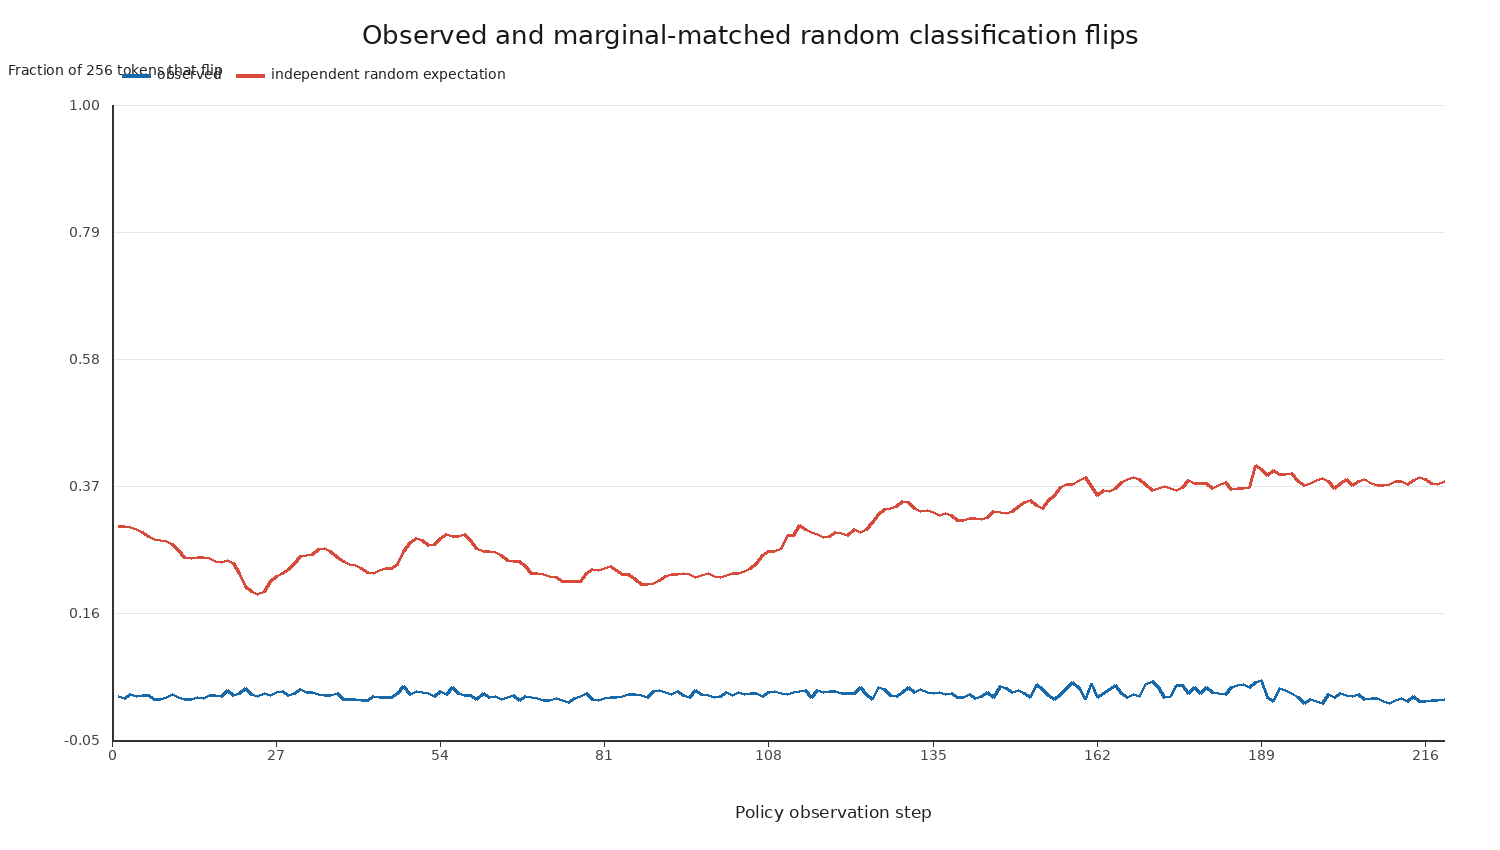
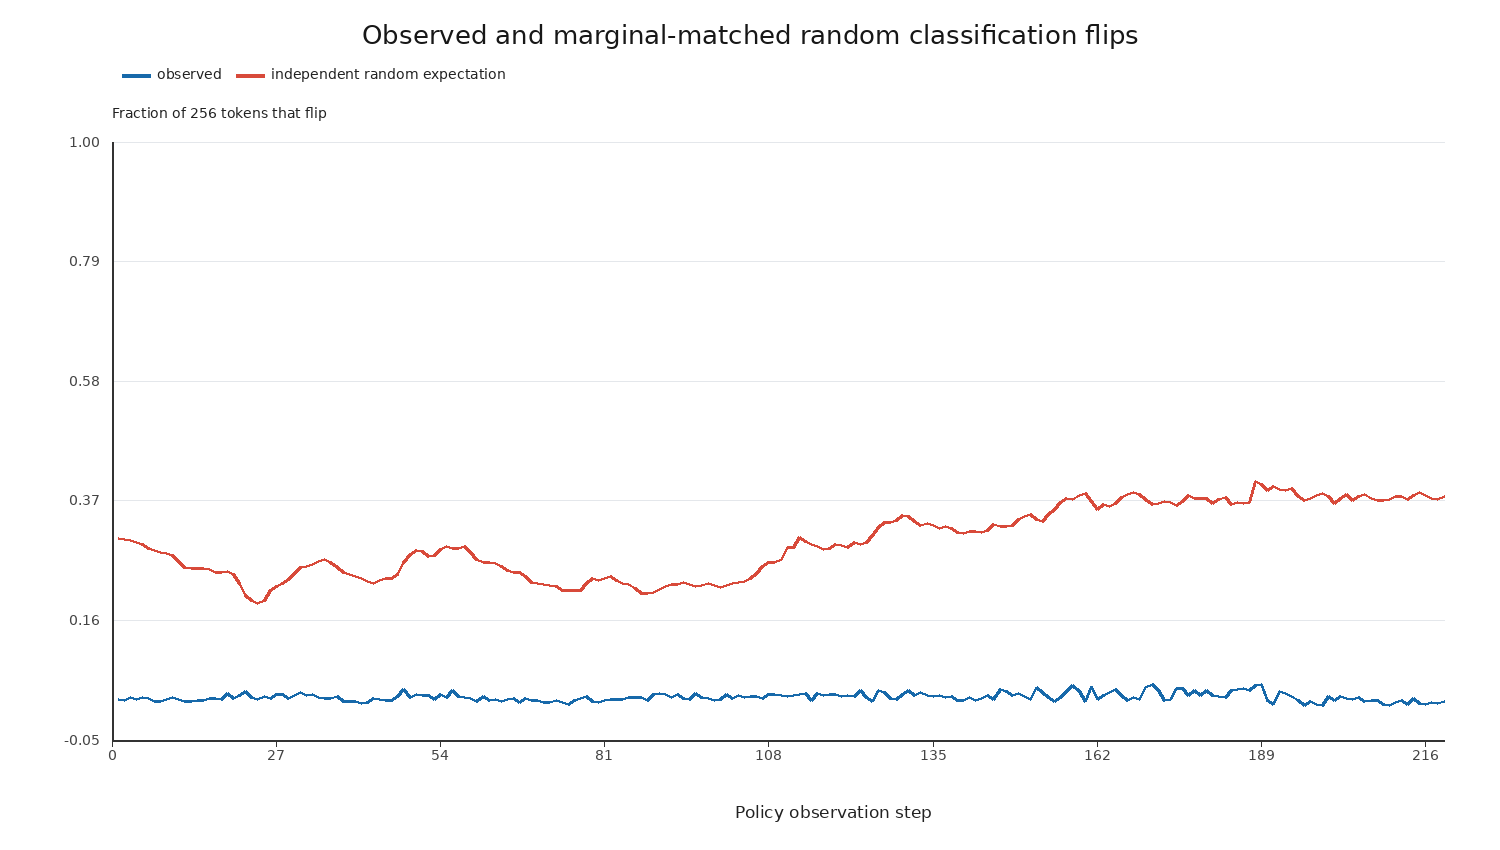
Improve temporal audit chart readability

diff --git a/experiments/kv_cache/experiments/v2_temporal_consistency_audit.py b/experiments/kv_cache/experiments/v2_temporal_consistency_audit.py
@@ -241,7 +241,7 @@ def line_chart(path: Path, title: str, series: list[tuple[str, list[float | None
     im = Image.new("RGB", (w, h), "white"); dr = ImageDraw.Draw(im)
     title_font, label_font, small_font = _font(26), _font(17), _font(14)
     dr.text((w // 2, 24), title, fill="#171717", font=title_font, anchor="mt")
-    left, right, top, bottom = 112, w - 56, 105, h - 110
+    left, right, top, bottom = 112, w - 56, 142, h - 110
     all_vals = [float(v) for _, arr, _ in series for v in arr if v is not None and math.isfinite(float(v))]
     if not all_vals: all_vals = [0.0, 1.0]
     lo = min(all_vals) if y_min is None else y_min; hi = max(all_vals) if y_max is None else y_max
@@ -261,11 +261,7 @@ def line_chart(path: Path, title: str, series: list[tuple[str, list[float | None
         dr.line((x, bottom, x, bottom + 6), fill="#333", width=1)
         dr.text((x, bottom + 10), str(x_tick), fill="#444", font=small_font, anchor="mt")
     dr.text((left + right // 2, h - 38), x_label, fill="#222", font=label_font, anchor="mm")
-    # Rotated y-axis title.
-    ytitle = Image.new("RGBA", (330, 36), (255, 255, 255, 0)); ImageDraw.Draw(ytitle).text((165, 2), y_label, fill="#222", font=label_font, anchor="mt")
-    im.alpha_composite(ytitle.rotate(90, expand=True), (8, (h - ytitle.height) // 2)) if im.mode == "RGBA" else None
-    # Drawing y-axis text unrotated keeps the figure readable with old Pillow.
-    dr.text((8, 62), y_label, fill="#222", font=small_font)
+    dr.text((left, 105), y_label, fill="#222", font=small_font)
     for label, arr, color in series:
         pts = []
         for i, v in enumerate(arr):
